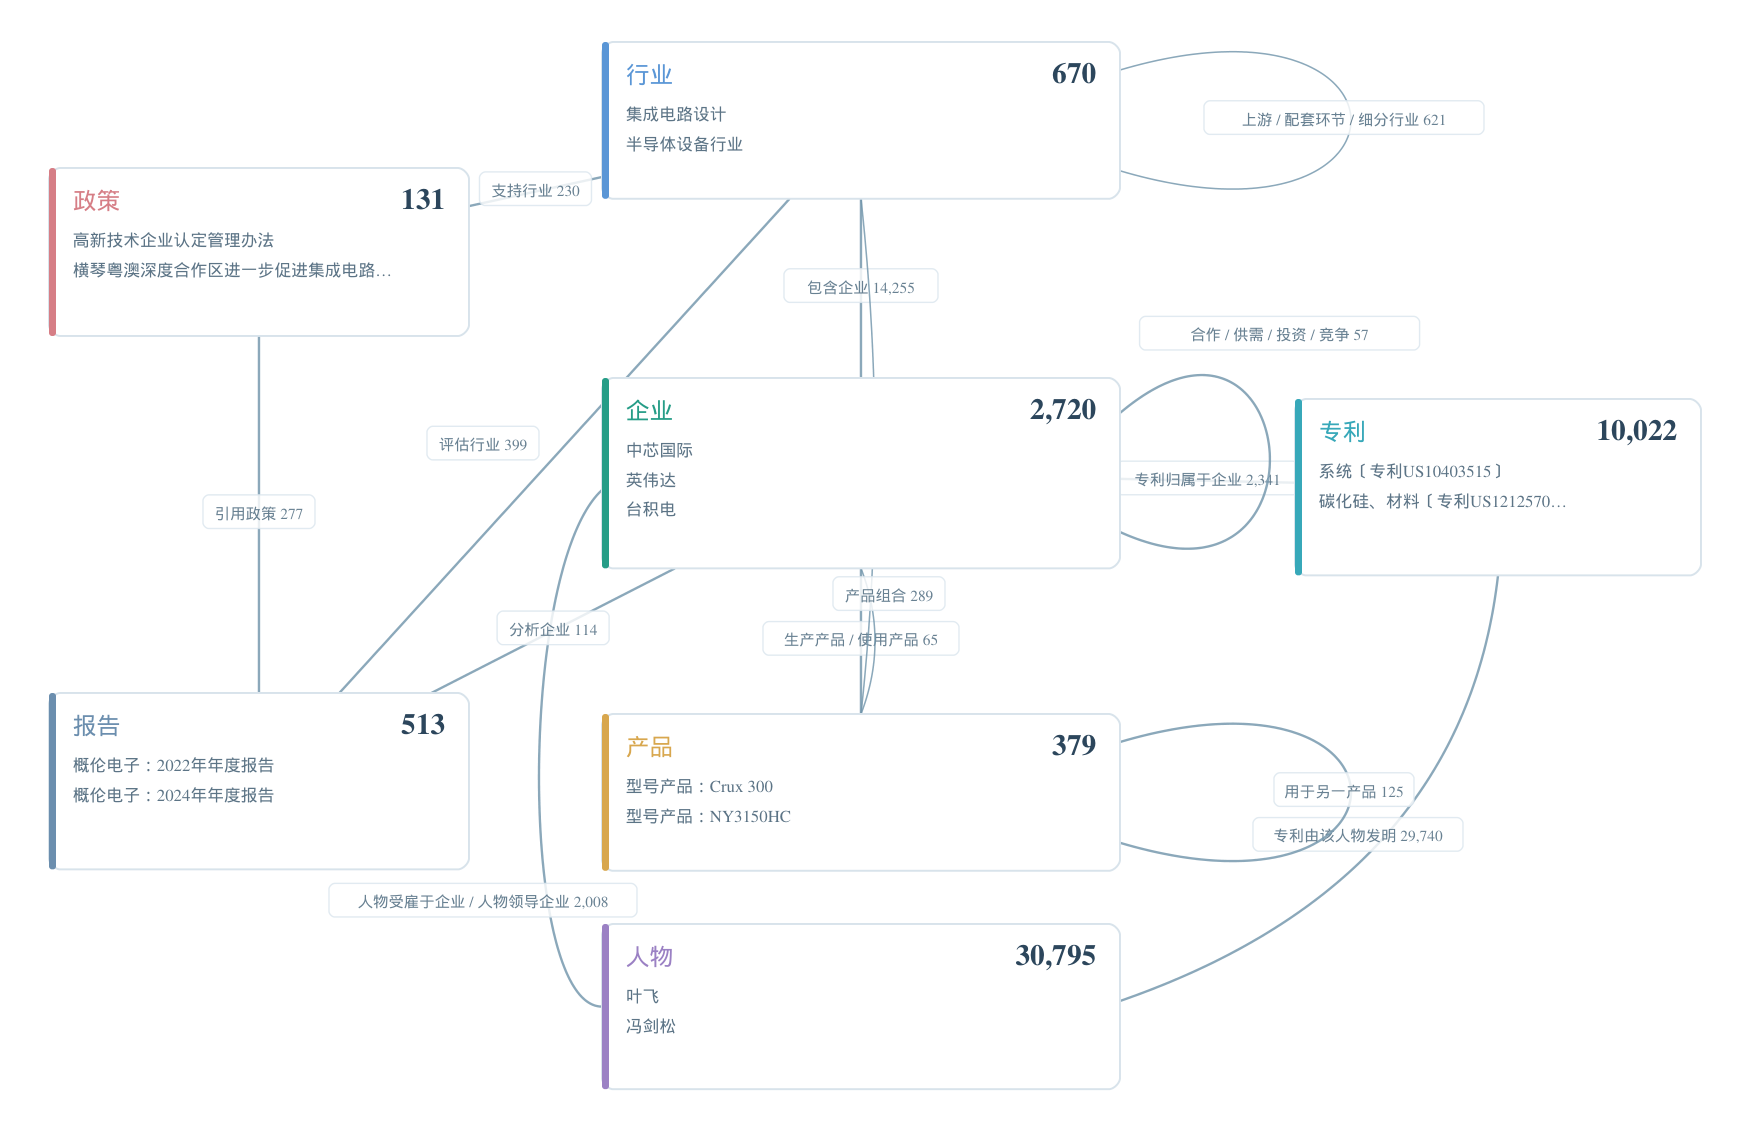
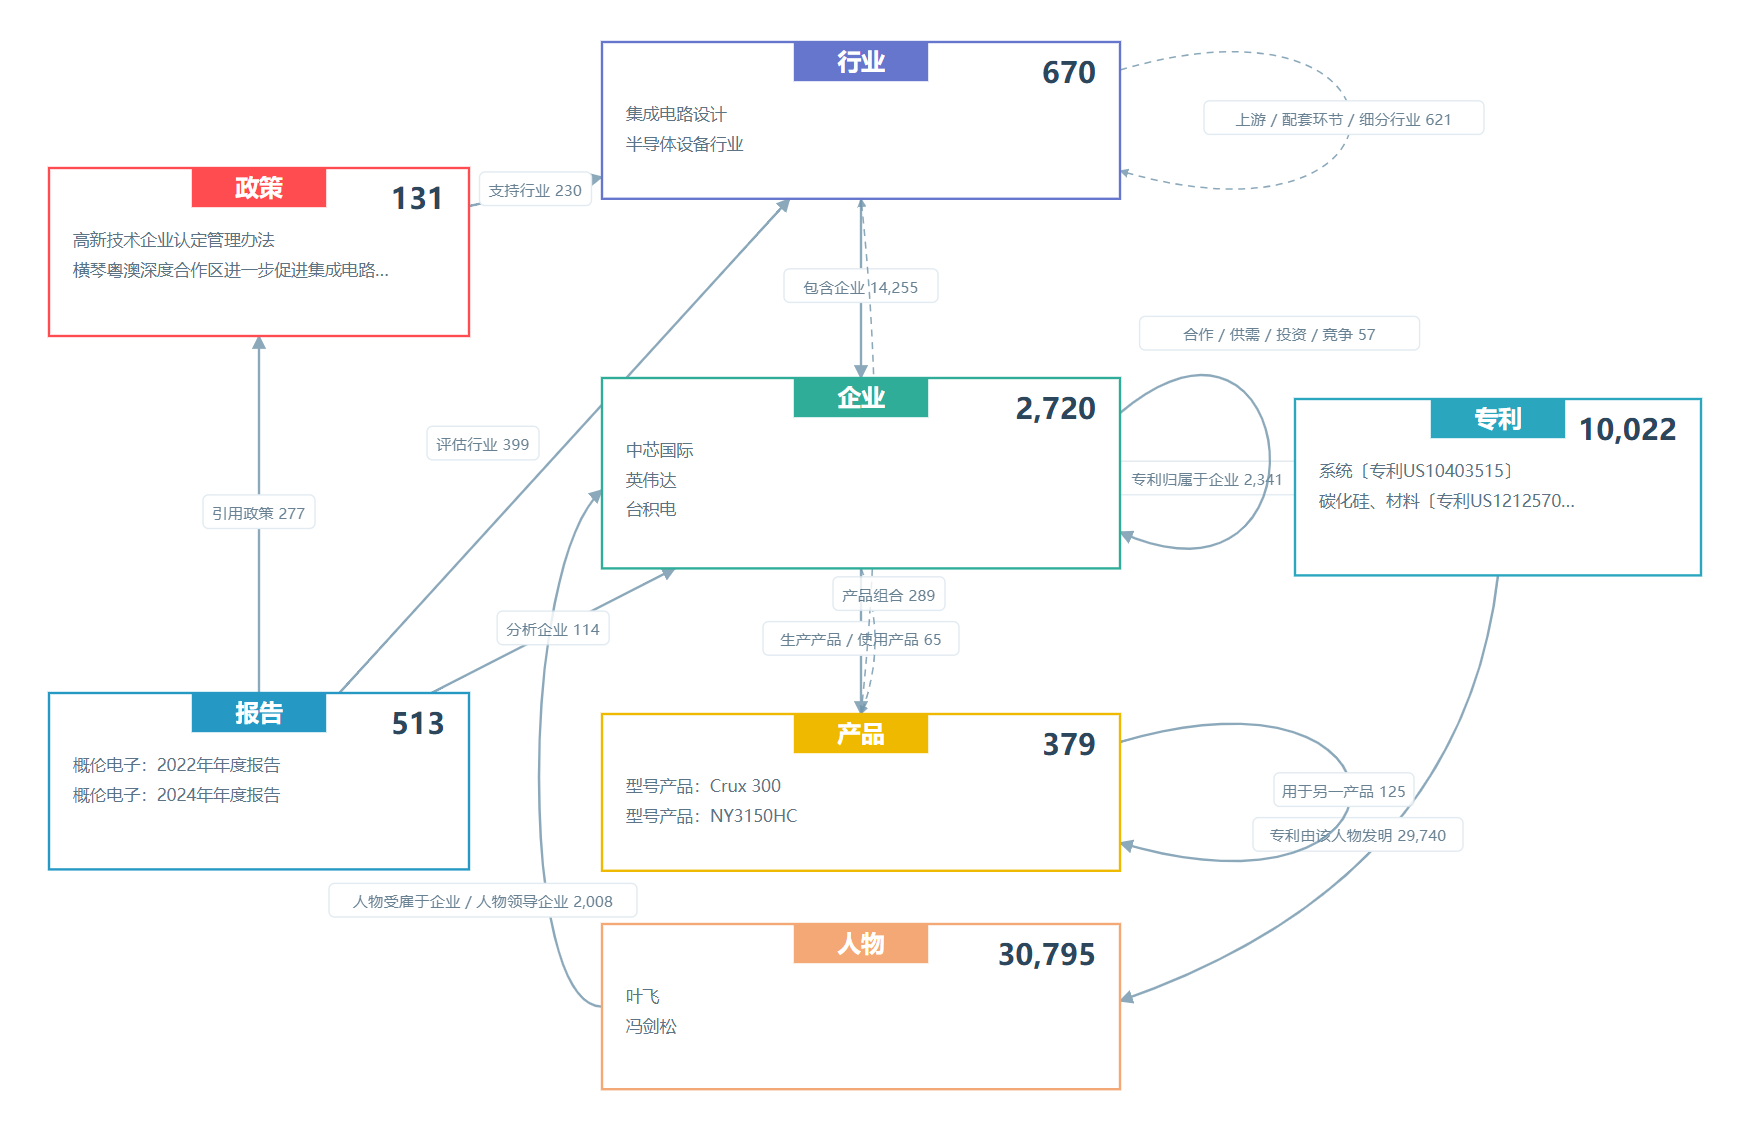
Restyle seven-layer overview with paper color frames
Use rectangular category frames and centered color title tabs. Preserve every label, count, card position, edge path, data payload and existing file. Refresh the README PNG, add a vector export and update presentation asset hashes.

diff --git a/docs/app.js b/docs/app.js
@@ -36,10 +36,11 @@ function renderLayerChips(){const displayIDs=new Set(v41OverviewRecords().flatMa
 function toggleLayer(t){if(layers.has(t))layers.delete(t);else layers.add(t);if($('layer-hide').checked)update();else{renderLayerChips();renderOverview();drawNetwork()}}
 $('clear-layers').onclick=()=>{layers.clear();update()};
 const CARDS={Industry:[430,30,370,112],Company:[430,270,370,136],Product:[430,510,370,112],Policy:[35,120,300,120],Report:[35,495,300,126],Patent:[925,285,290,126],Person:[430,660,370,118]};
+const OVERVIEW_COLORS={"Industry":"#6676cd","Company":"#2fad98","Product":"#efb900","Policy":"#ff4c51","Patent":"#2aa6bf","Report":"#2598c4","Person":"#f3a875"};
 function overviewExamples(ids,type){const preferred={Industry:['集成电路设计','半导体设备行业','半导体材料行业'],Company:['中芯国际','英伟达','台积电','NVIDIA Corporation','Taiwan Semiconductor Manufacturing Company Limited']}[type]||[],rank=id=>{const i=preferred.indexOf(NAME(id));return i<0?preferred.length:i},seen=new Set();return ids.slice().sort((a,b)=>(type==='Person'?Number(!!N.get(b)?.operationalPerson)-Number(!!N.get(a)?.operationalPerson):type==='Product'?Number(!!N.get(b)?.v4Addition)-Number(!!N.get(a)?.v4Addition):0)||rank(a)-rank(b)||(currentAdj.get(b)?.length||0)-(currentAdj.get(a)?.length||0)).filter(id=>{const name=NAME(id);if(seen.has(name))return false;seen.add(name);return true}).slice(0,type==='Company'?3:2)}
 function renderOverview(){const overviewRecords=v41OverviewRecords(),overviewNodeIDs=new Set(overviewRecords.flatMap(e=>[e.s,e.o])),matchSet=new Set(v41ConfirmedEdges().map(e=>e.id));const root=$('seven-layer-svg');root.replaceChildren();root.setAttribute('font-family','Microsoft YaHei, Arial, sans-serif');root.append(svg('title',{},'七层本体总览，层与连线依据当前时间和知识快照聚合'));const defs=svg('defs');const marker=svg('marker',{id:'arrow-v3',viewBox:'0 0 10 10',refX:9,refY:5,markerWidth:6,markerHeight:6,orient:'auto'});marker.append(svg('path',{d:'M0 0L10 5L0 10Z',fill:'#7296ac'}));defs.append(marker);root.append(defs);const pairs=new Map();for(const e of overviewRecords){const a=N.get(e.s)?.type,b=N.get(e.o)?.type;if(!a||!b)continue;const key=a+'|'+b+'|'+(e.structure?'structure':e.supplement?'supplement':'core');if(!pairs.has(key))pairs.set(key,{a,b,kind:e.structure?'structure':e.supplement?'supplement':'core',count:0,predicates:new Set()});const p=pairs.get(key);p.count++;p.matched=(p.matched||0)+(matchSet.has(e.id)?1:0);p.predicates.add(e.p)}const positions={};TYPES.forEach(t=>{const[x,y,w,h]=CARDS[t];positions[t]={x:x+w/2,y:y+h/2,w,h}});
  for(const p of pairs.values()){const a=positions[p.a],b=positions[p.b],hot=!layers.size||layers.has(p.a)||layers.has(p.b),opacity=hot?((fullTime||p.matched)?.82:.22):.12;let d,x,y;if(p.a===p.b){if(p.a==='Company'){d='M800 295 C930 185 955 450 800 380';x=914;y=240}else{const c=CARDS[p.a];d=`M${c[0]+c[2]} ${c[1]+20} C${c[0]+c[2]+220} ${c[1]-45} ${c[0]+c[2]+220} ${c[1]+c[3]+45} ${c[0]+c[2]} ${c[1]+c[3]-20}`;x=c[0]+c[2]+160;y=c[1]+c[3]/2}}else{const dx=b.x-a.x,dy=b.y-a.y,scaleA=Math.min(a.w/2/Math.max(1,Math.abs(dx)),a.h/2/Math.max(1,Math.abs(dy))),scaleB=Math.min(b.w/2/Math.max(1,Math.abs(dx)),b.h/2/Math.max(1,Math.abs(dy))),sx=a.x+dx*scaleA,sy=a.y+dy*scaleA,ex=b.x-dx*scaleB,ey=b.y-dy*scaleB,offset=(p.kind==='structure'?20:p.kind==='supplement'?-20:0);d=`M${sx} ${sy} Q${(sx+ex)/2+offset} ${(sy+ey)/2} ${ex} ${ey}`;x=(sx+ex)/2+offset;y=(sy+ey)/2}if(p.a==='Report'&&p.b==='Industry')x=345;if(p.a==='Person'&&p.b==='Company'){d='M430 719 C370 719 370 405 430 350';x=345;y=645}if(p.a==='Patent'&&p.b==='Person'){d='M1070 411 Q1045 630 800 715';x=970;y=598}if(p.a==='Company'&&p.b==='Product'&&p.kind==='structure')y-=32;const g=svg('g',{opacity,role:'button',tabindex:0,'aria-label':DATA.names[p.a]+'到'+DATA.names[p.b]+' '+p.count+'条'});g.append(svg('path',{d,fill:'none',stroke:p.kind==='supplement'?'#b98e51':'#7296ac','stroke-width':p.kind==='core'?1.7:1.1,'stroke-dasharray':p.kind==='core'?'':'5 4','marker-end':'url(#arrow-v3)'}));const text=p.a==='Company'&&p.b==='Company'&&p.kind==='core'?[...new Set([...p.predicates].map(x=>['cooperation','partnersWith'].includes(x)?'合作':['suppliesTo','manufacturesFor','distributesTo','providesServiceTo'].includes(x)?'供需':x==='investsIn'?'投资':x==='competition'?'竞争':PN[x]||x))].join(' / '):[...p.predicates].map(x=>PN[x]||x).slice(0,2).join(' / '),label=short(text,17)+' '+fmt(p.count),width=Math.max(70,label.length*10);g.append(svg('rect',{x:x-width/2,y:y-14,width,height:24,rx:4,fill:'#fff',stroke:'#dbe6ee'}));g.append(svg('text',{x,y:y+3,'text-anchor':'middle','font-size':11,fill:'#48667b'},label));g.append(svg('title',{},[...p.predicates].map(x=>PN[x]||x).join('、')+'；'+(v41ContextOverview()?'全期来源 '+fmt(p.count)+' 条 / 区间确证 '+fmt(p.matched||0)+' 条':'当前来源 '+fmt(p.count)+' 条')));const go=()=>{if(v41ContextOverview()&&!p.matched){const sample=overviewRecords.find(e=>N.get(e.s)?.type===p.a&&N.get(e.o)?.type===p.b&&(e.structure?'structure':e.supplement?'supplement':'core')===p.kind);if(sample){openRecord(sample.id);return}}typePair=[p.a,p.b];$('predicate-filter').value='all';$('record-search').value='';recordPage=0;setView('records')};g.onclick=go;g.onkeydown=e=>{if(e.key==='Enter')go()};root.append(g)}
- for(const t of TYPES){const[x,y,w,h]=CARDS[t],ids=[...overviewNodeIDs].filter(id=>N.get(id)?.type===t),g=svg('g',{opacity:layerHot(t)?(v41ContextOverview()&&!v41TypeCount(v41ConfirmedIDs(),t)?.55:1):.3,role:'button',tabindex:0,'aria-label':'高亮'+DATA.names[t]+'层',class:'layer-card','data-layer-card':t});g.append(svg('rect',{x,y,width:w,height:h,rx:8,fill:'#fff',stroke:layers.has(t)?COLORS[t]:'#d8e3eb','stroke-width':layers.has(t)?2.5:1.4}));g.append(svg('rect',{x,y,width:5,height:h,rx:2,fill:COLORS[t]}));g.append(svg('text',{x:x+17,y:y+29,'font-size':17,'font-weight':650,fill:COLORS[t]},DATA.names[t]));g.append(svg('text',{x:x+w-17,y:y+29,'text-anchor':'end','font-size':21,'font-weight':650,fill:'#2c465c'},fmt(ids.length)));if(v41ContextOverview())g.append(svg('text',{x:x+17,y:y+49,'font-size':11,fill:'#946e2a'},'全期 '+fmt(ids.length)+' · 命中 '+fmt(v41TypeCount(v41ConfirmedIDs(),t))));const top=overviewExamples(ids,t).slice(0,v41ContextOverview()?(t==='Company'?2:1):3);top.forEach((id,i)=>g.append(svg('text',{x:x+17,y:y+(v41ContextOverview()?76:56)+i*21,'font-size':12,fill:'#5c7486'},short(NAME(id),w>350?23:18))));g.onclick=()=>toggleLayer(t);g.onkeydown=e=>{if(e.key==='Enter'||e.key===' '){e.preventDefault();toggleLayer(t)}};root.append(g)}
+ for(const t of TYPES){const[x,y,w,h]=CARDS[t],ids=[...overviewNodeIDs].filter(id=>N.get(id)?.type===t),g=svg('g',{opacity:layerHot(t)?(v41ContextOverview()&&!v41TypeCount(v41ConfirmedIDs(),t)?.55:1):.3,role:'button',tabindex:0,'aria-label':'高亮'+DATA.names[t]+'层',class:'layer-card','data-layer-card':t});g.append(svg('rect',{x,y,width:w,height:h,rx:0,fill:'#fff',stroke:OVERVIEW_COLORS[t],'stroke-width':layers.has(t)?2.6:1.7}));g.append(svg('rect',{x:x+(w-96)/2,y,width:96,height:28,rx:0,fill:OVERVIEW_COLORS[t]}));g.append(svg('text',{x:x+w/2,y:y+20,'text-anchor':'middle','font-size':17,'font-weight':650,fill:'#fff'},DATA.names[t]));g.append(svg('text',{x:x+w-17,y:y+29,'text-anchor':'end','font-size':21,'font-weight':650,fill:'#2c465c'},fmt(ids.length)));if(v41ContextOverview())g.append(svg('text',{x:x+17,y:y+49,'font-size':11,fill:'#946e2a'},'全期 '+fmt(ids.length)+' · 命中 '+fmt(v41TypeCount(v41ConfirmedIDs(),t))));const top=overviewExamples(ids,t).slice(0,v41ContextOverview()?(t==='Company'?2:1):3);top.forEach((id,i)=>g.append(svg('text',{x:x+17,y:y+(v41ContextOverview()?76:56)+i*21,'font-size':12,fill:'#5c7486'},short(NAME(id),w>350?23:18))));g.onclick=()=>toggleLayer(t);g.onkeydown=e=>{if(e.key==='Enter'||e.key===' '){e.preventDefault();toggleLayer(t)}};root.append(g)}
 }
 function matches(n,q){return[n.name,n.originalName,n.id,...n.aliases].some(s=>String(s).toLowerCase().includes(q))}
 function goSearch(){const q=$('global-search').value.trim().toLowerCase(),found=DATA.nodes.filter(n=>snapshotIDs.has(n.id)&&matches(n,q)&&n.formal!==false);if(!q)return;const exact=found.find(n=>n.name.toLowerCase()===q);if(exact||found.length===1){chooseNode((exact||found[0]).id)}else{$('directory-search').value=q;setView('directory')}$('search-results').hidden=true}

diff --git a/docs/theme.css b/docs/theme.css
@@ -232,10 +232,10 @@ a:hover { color: #086b5b; }
 .svg-shell { max-width: 100%; min-height: 450px; overflow: auto; border-radius: 0 0 16px 16px; background-color: #fbfcfd; background-image: radial-gradient(#d9e2e9 .7px, transparent .7px); background-size: 17px 17px; }
 .overview { display: block; width: 100%; min-width: 660px; height: auto; }
 .layer-card { cursor: pointer; }
-.layer-card > rect:first-of-type { rx: 14px; transition: stroke .18s, filter .18s; }
-.layer-card:hover > rect:first-of-type { filter: drop-shadow(0 3px 5px #244c6320); stroke-width: 2px; }
+#seven-layer-svg .layer-card > rect:first-of-type { rx: 0; transition: stroke-width .18s; }
+#seven-layer-svg .layer-card:hover > rect:first-of-type { filter: none; stroke-width: 2.3px; }
 .layer-card:focus-visible { outline: none; }
-.layer-card:focus-visible > rect:first-of-type { stroke: #128774; stroke-width: 3px; }
+#seven-layer-svg .layer-card:focus-visible > rect:first-of-type { stroke-width: 3px; }
 .canvas-shell { position: relative; height: 660px; overflow: hidden; border-radius: 0 0 16px 16px; background: #112538; }
 canvas { display: block; width: 100%; height: 100%; cursor: grab; touch-action: none; }
 canvas:active { cursor: grabbing; }
